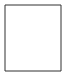
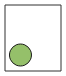
Updates

Changed region(s): [[0.1212, 0.5526, 0.4848, 0.8947]]

diff --git a/assets/shapes/index.js b/assets/shapes/index.js
@@ -4581,6 +4581,11 @@ var draw2d_circuit_hardware_BlocINPUT = draw2d.SetFigure.extend({
         shape.attr({"stroke":"#303030","stroke-width":1,"fill":"#FFFFFF","dasharray":null,"opacity":1});
         shape.data("name","Rectangle");
         
+        // indicator
+        shape = this.canvas.paper.ellipse();
+        shape.attr({"rx":11,"ry":11,"cx":15.477199999999812,"cy":50,"stroke":"#1B1B1B","stroke-width":1,"fill":"#95C06A","dasharray":null,"opacity":1});
+        shape.data("name","indicator");
+        
 
         return this.canvas.paper.setFinish();
    },
@@ -4733,7 +4738,8 @@ var draw2d_circuit_hardware_BlocINPUT = draw2d.SetFigure.extend({
 draw2d_circuit_hardware_BlocINPUT = draw2d_circuit_hardware_BlocINPUT.extend({
 
     init: function(attr, setter, getter){
-         this._super(attr, setter, getter);
+        var _this = this;
+        this._super(attr, setter, getter);
 
         this.attr({
             resizeable:false,
@@ -4744,9 +4750,11 @@ draw2d_circuit_hardware_BlocINPUT = draw2d_circuit_hardware_BlocINPUT.extend({
             console.log("added");
             hardware.bloc.on("bloc:register",function(){
                 console.log("device registered",arguments);
+                _this.layerAttr("indicator",{bgColor:"#00FF00"});
             });
             hardware.bloc.on("bloc:unregister",function(){
                 console.log("device unregistered",arguments);
+                _this.layerAttr("indicator",{bgColor:"#FF0000"});
             });            
         });
         this.on("removed",function(){

diff --git a/assets/shapes/draw2d_circuit_hardware_BlocINPUT.js b/assets/shapes/draw2d_circuit_hardware_BlocINPUT.js
@@ -44,6 +44,11 @@ var draw2d_circuit_hardware_BlocINPUT = draw2d.SetFigure.extend({
         shape.attr({"stroke":"#303030","stroke-width":1,"fill":"#FFFFFF","dasharray":null,"opacity":1});
         shape.data("name","Rectangle");
         
+        // indicator
+        shape = this.canvas.paper.ellipse();
+        shape.attr({"rx":11,"ry":11,"cx":15.477199999999812,"cy":50,"stroke":"#1B1B1B","stroke-width":1,"fill":"#95C06A","dasharray":null,"opacity":1});
+        shape.data("name","indicator");
+        
 
         return this.canvas.paper.setFinish();
    },
@@ -196,7 +201,8 @@ var draw2d_circuit_hardware_BlocINPUT = draw2d.SetFigure.extend({
 draw2d_circuit_hardware_BlocINPUT = draw2d_circuit_hardware_BlocINPUT.extend({
 
     init: function(attr, setter, getter){
-         this._super(attr, setter, getter);
+        var _this = this;
+        this._super(attr, setter, getter);
 
         this.attr({
             resizeable:false,
@@ -207,9 +213,11 @@ draw2d_circuit_hardware_BlocINPUT = draw2d_circuit_hardware_BlocINPUT.extend({
             console.log("added");
             hardware.bloc.on("bloc:register",function(){
                 console.log("device registered",arguments);
+                _this.layerAttr("indicator",{bgColor:"#00FF00"});
             });
             hardware.bloc.on("bloc:unregister",function(){
                 console.log("device unregistered",arguments);
+                _this.layerAttr("indicator",{bgColor:"#FF0000"});
             });            
         });
         this.on("removed",function(){
